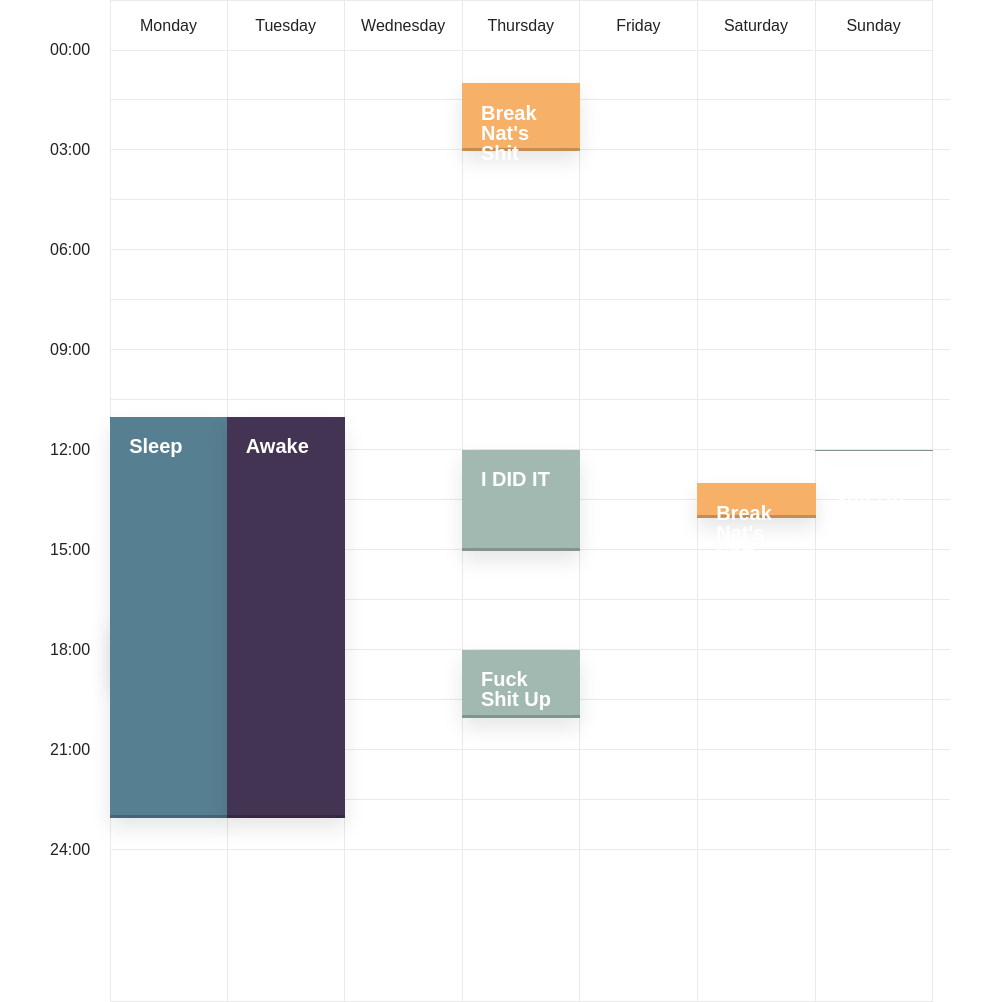
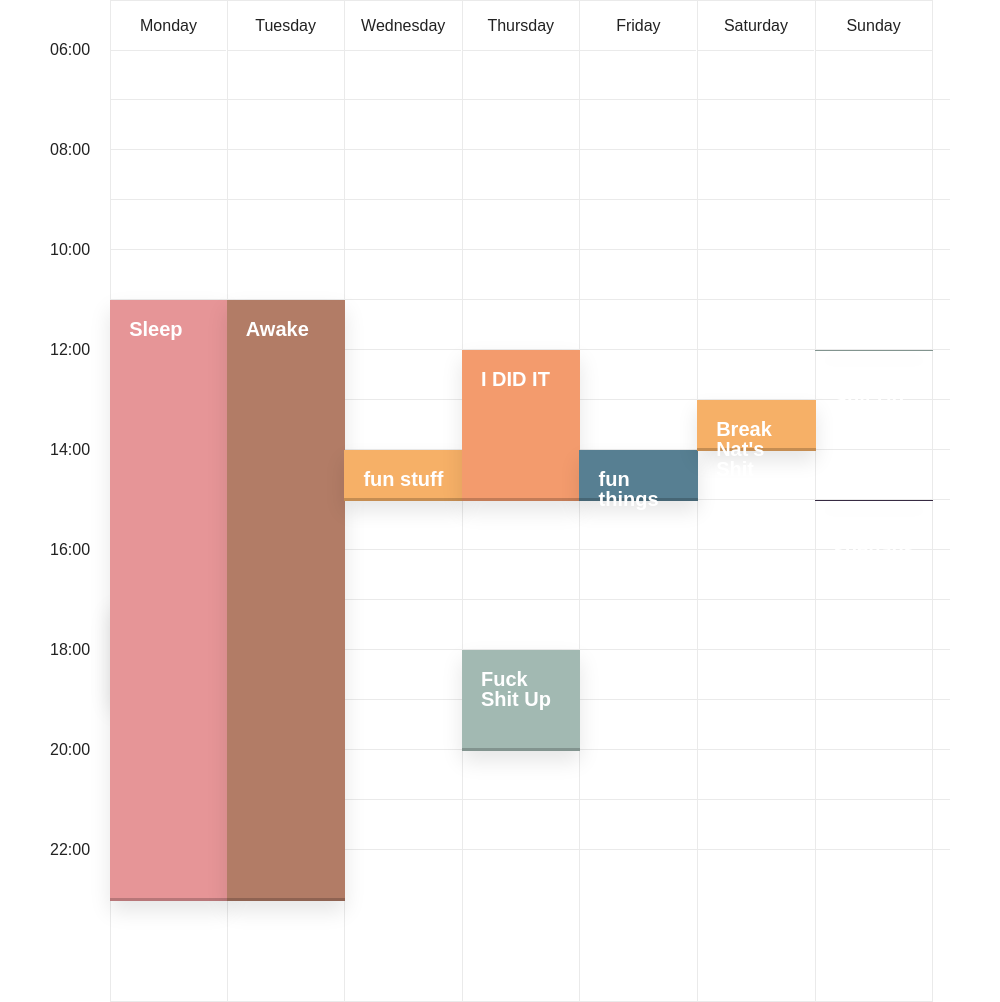
Added more colors to images

Changed region(s): [[0.093, 0.2784, 0.837, 0.8972], [0.465, 0.0619, 0.589, 0.1547], [0.465, 0.7116, 0.589, 0.7735]]

diff --git a/commands/schedimg.js b/commands/schedimg.js
@@ -59,7 +59,7 @@ module.exports = {
         let counter = 1
         schedDataKeys.forEach(event => {
             schedData[event]['val'] = counter;
-            counter = (counter + 1) % 4;
+            counter = (counter + 1) % 8;        // We have 8 color options
         });
         for (let i = 0; i < schedDataKeys.length; i++) {
             for (let j = 0; j < schedData[schedDataKeys[i]].length; j++) {
@@ -545,7 +545,32 @@ module.exports = {
   .cd-schedule .single-event[data-event="event-3"],
   .cd-schedule [data-event="event-3"] .header-bg {
     background: #f6b067;
-  }
+   }
+
+  .cd-schedule .single-event[data-event="event-4"],
+  .cd-schedule [data-event="event-4"] .header-bg {
+    background: #FF7477;
+   }
+  
+  .cd-schedule .single-event[data-event="event-4"],
+  .cd-schedule [data-event="event-4"] .header-bg {
+    background: #E69597;
+   }
+
+  .cd-schedule .single-event[data-event="event-5"],
+  .cd-schedule [data-event="event-5"] .header-bg {
+    background: #B27C66;
+   }
+  
+  .cd-schedule .single-event[data-event="event-6"],
+  .cd-schedule [data-event="event-6"] .header-bg {
+    background: #F39B6D;
+   }
+  
+  .cd-schedule .single-event[data-event="event-7"],
+  .cd-schedule [data-event="event-7"] .header-bg {
+    background: #f6b067;
+   }
   
   .cd-schedule .event-modal {
     position: fixed;
